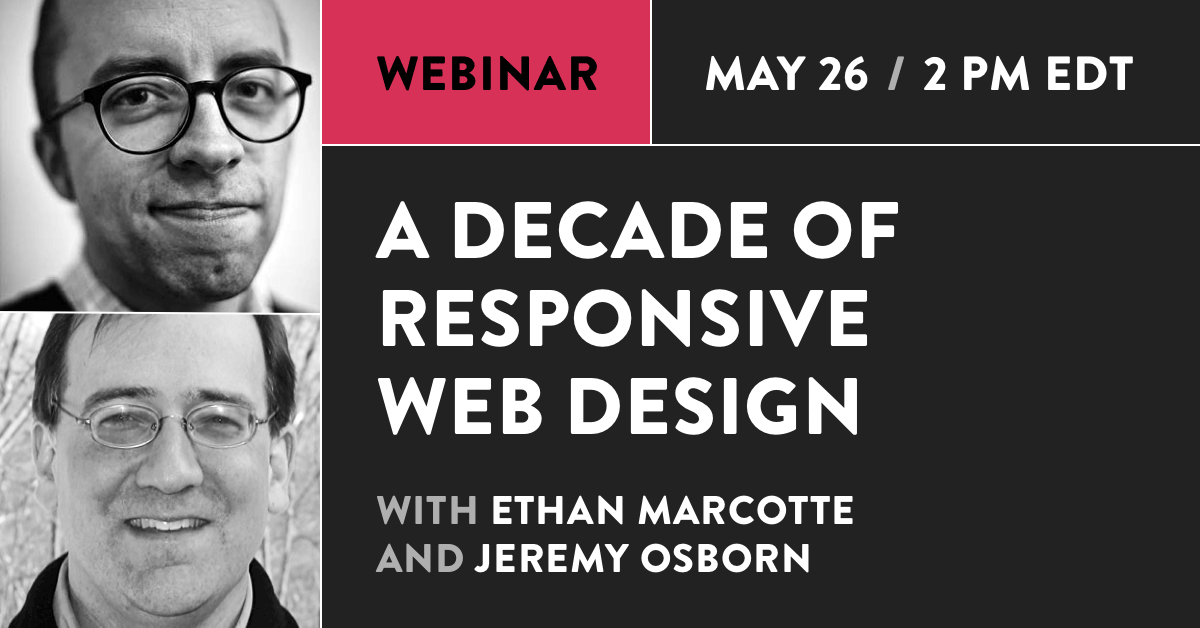
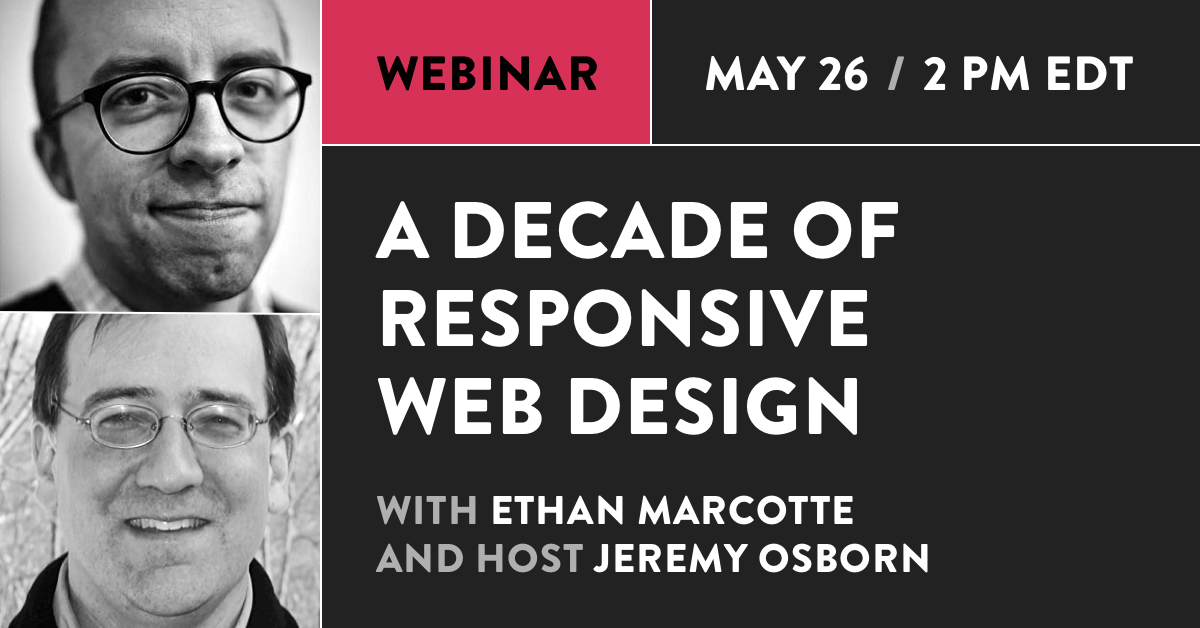
Update webinar email
Update copy and artwork.

Changed region(s): [[0.4008, 0.8471, 0.7708, 0.9076]]

diff --git a/gym-emails/webinar-decade-of-rwd-email/index.html b/gym-emails/webinar-decade-of-rwd-email/index.html
@@ -5,11 +5,11 @@
 <meta http-equiv="x-ua-compatible" content="ie=edge">
 <meta name="viewport" content="width=device-width, initial-scale=1, shrink-to-fit=no">
 <meta name="format-detection" content="telephone=no">
-<title>Meet the 🧠 Behind Responsive Web Design</title>
+<title>Join Us for a Webinar with Ethan Marcotte</title>
 <meta name="author" content="Aquent Gymnasium">
 </head>
 <body bgcolor="#ebebeb" style="width: 100%; font-family: sans-serif; font-size: 100%; background-color: #ebebeb; padding: 0; margin: 0; -webkit-text-size-adjust: 100%;">
-<div class="preheader-text" style="display: none !important; font-family: sans-serif; font-size: 1px; line-height: 1px; color: #ebebeb; text-align: center; max-height: 0; max-width: 0; padding: 0; margin: 0; opacity: 0; overflow: hidden; mso-hide: all;">Join Us for a Chat with Ethan Marcotte.</div>
+<div class="preheader-text" style="display: none !important; font-family: sans-serif; font-size: 1px; line-height: 1px; color: #ebebeb; text-align: center; max-height: 0; max-width: 0; padding: 0; margin: 0; opacity: 0; overflow: hidden; mso-hide: all;">&#129346;&zwj;&#x1F942; to a Decade of Responsive Web Design.</div>
 <style>
 body {width: 100%; font-family: sans-serif; font-size: 100%; background-color: #ebebeb; padding: 0; margin: 0; -webkit-text-size-adjust: 100%;}
 a {color: #f8971d; text-decoration: underline;}
@@ -66,19 +66,15 @@ table td {padding: 0;}
           <td width="540" align="left" valign="top" style="padding: 0 0 21px;">
           <div class="leading-21" style="font-family: monospace, monospace; font-size: 21px; line-height: 21px; padding: 0; margin: 0;"><br></div>
           <p style="font-family: 'Helvetica Neue', Helvetica, Arial, 'Droid Sans', sans-serif; font-weight: normal; font-size: 16px; line-height: 22px; color: #222222; padding: 0; margin: 0;">
-          Join us on <strong style="font-weight: bold;">Tuesday, May 26, at 2 p.m. EDT</strong> for a webinar with <strong style="font-weight: bold;">Ethan Marcotte &#8212; the mind behind responsive web design</strong>.
+          Join us on <strong style="font-weight: bold;">Tuesday, May 26, at 2 p.m. EDT</strong> for a webinar with <strong style="font-weight: bold;">Ethan Marcotte</strong> &#8212; the fellow who started that whole &#8220;responsive design&#8221; thing.
           </p>
           <div class="leading-15" style="font-family: monospace, monospace; font-size: 15px; line-height: 15px; padding: 0; margin: 0;"><br></div>
           <p style="font-family: 'Helvetica Neue', Helvetica, Arial, 'Droid Sans', sans-serif; font-weight: normal; font-size: 16px; line-height: 22px; color: #222222; padding: 0; margin: 0;">
-          It&#8217;s officially been a decade since his <a target="_blank" href="https://alistapart.com/article/responsive-web-design/" style="font-family: 'Helvetica Neue', Helvetica, Arial, 'Droid Sans', sans-serif; font-size: 16px; line-height: 22px; color: #f8971d !important; text-decoration: underline !important;"><span style="color: #f8971d;">groundbreaking article</span></a> was published. (Yes, really!)
+          It&#8217;s officially been a decade since his groundbreaking article was published.
           </p>
           <div class="leading-15" style="font-family: monospace, monospace; font-size: 15px; line-height: 15px; padding: 0; margin: 0;"><br></div>
           <p style="font-family: 'Helvetica Neue', Helvetica, Arial, 'Droid Sans', sans-serif; font-weight: normal; font-size: 16px; line-height: 22px; color: #222222; padding: 0; margin: 0;">
-Let&#8217;s celebrate by taking a thoughtful look at the past, present, and future of accessibility and the web.
-          </p>
-           <div class="leading-15" style="font-family: monospace, monospace; font-size: 15px; line-height: 15px; padding: 0; margin: 0;"><br></div>
-          <p style="font-family: 'Helvetica Neue', Helvetica, Arial, 'Droid Sans', sans-serif; font-weight: normal; font-size: 16px; line-height: 22px; color: #222222; padding: 0; margin: 0;">
-          We&#8217;ll discuss topics like:
+Let&#8217;s celebrate by taking a thoughtful look at the past, present, and future of accessibility and the web. We&#8217;ll discuss topics like:
           </p>
           <table class="list" width="100%" align="center" cellpadding="0" cellspacing="0" border="0" bgcolor="#fffffe" style="background-color: #fffffe; border-spacing: 0;" role="presentation">
             <tr>
@@ -94,7 +90,7 @@ Let&#8217;s celebrate by taking a thoughtful look at the past, present, and futu
               <p style="font-family: 'Helvetica Neue', Helvetica, Arial, 'Droid Sans', sans-serif; font-weight: normal; font-size: 18px; line-height: 24px; color: #d73158; padding: 0; margin: 0;">&#8226;</p>
               </td>
               <td width="520" align="left" valign="top" style="padding: 11px 0 0;">
-              <p style="font-family: 'Helvetica Neue', Helvetica, Arial, 'Droid Sans', sans-serif; font-weight: normal; font-size: 16px; line-height: 22px; color: #222222; padding: 0; margin: 0;">How designers can adapt when faced with new accessibility challenges</p>
+              <p style="font-family: 'Helvetica Neue', Helvetica, Arial, 'Droid Sans', sans-serif; font-weight: normal; font-size: 16px; line-height: 22px; color: #222222; padding: 0; margin: 0;">How to navigate the blurred lines that exist between native and web apps</p>
               </td>
             </tr>
             <tr>
@@ -102,7 +98,7 @@ Let&#8217;s celebrate by taking a thoughtful look at the past, present, and futu
               <p style="font-family: 'Helvetica Neue', Helvetica, Arial, 'Droid Sans', sans-serif; font-weight: normal; font-size: 18px; line-height: 24px; color: #d73158; padding: 0; margin: 0;">&#8226;</p>
               </td>
               <td width="520" align="left" valign="top" style="padding: 11px 0 0;">
-              <p style="font-family: 'Helvetica Neue', Helvetica, Arial, 'Droid Sans', sans-serif; font-weight: normal; font-size: 16px; line-height: 22px; color: #222222; padding: 0; margin: 0;">What opportunities lie ahead for the web given the rise of mobile apps</p>
+              <p style="font-family: 'Helvetica Neue', Helvetica, Arial, 'Droid Sans', sans-serif; font-weight: normal; font-size: 16px; line-height: 22px; color: #222222; padding: 0; margin: 0;">How designers can adapt when faced with new accessibility challenges</p>
               </td>
             </tr>
           </table>
